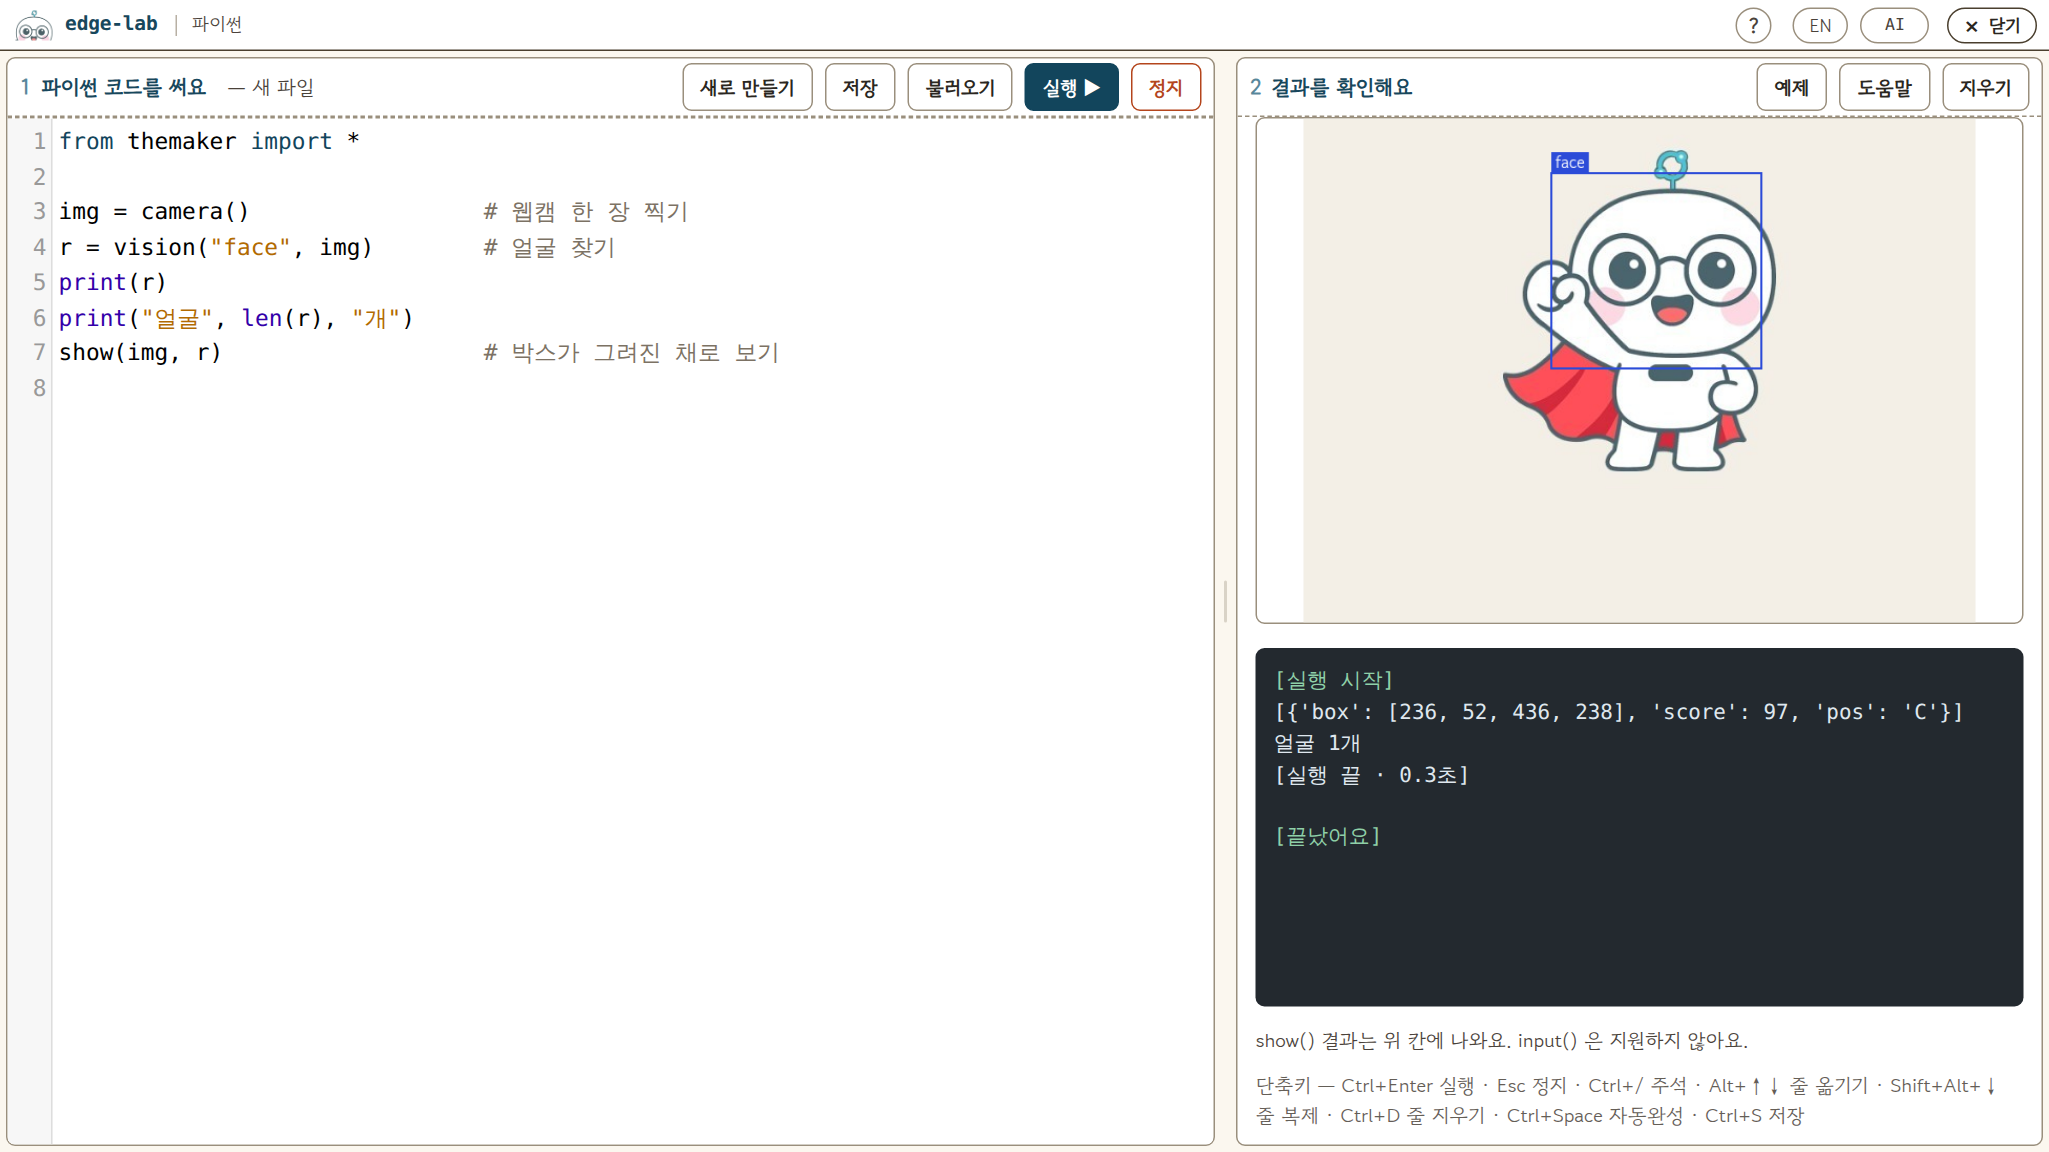
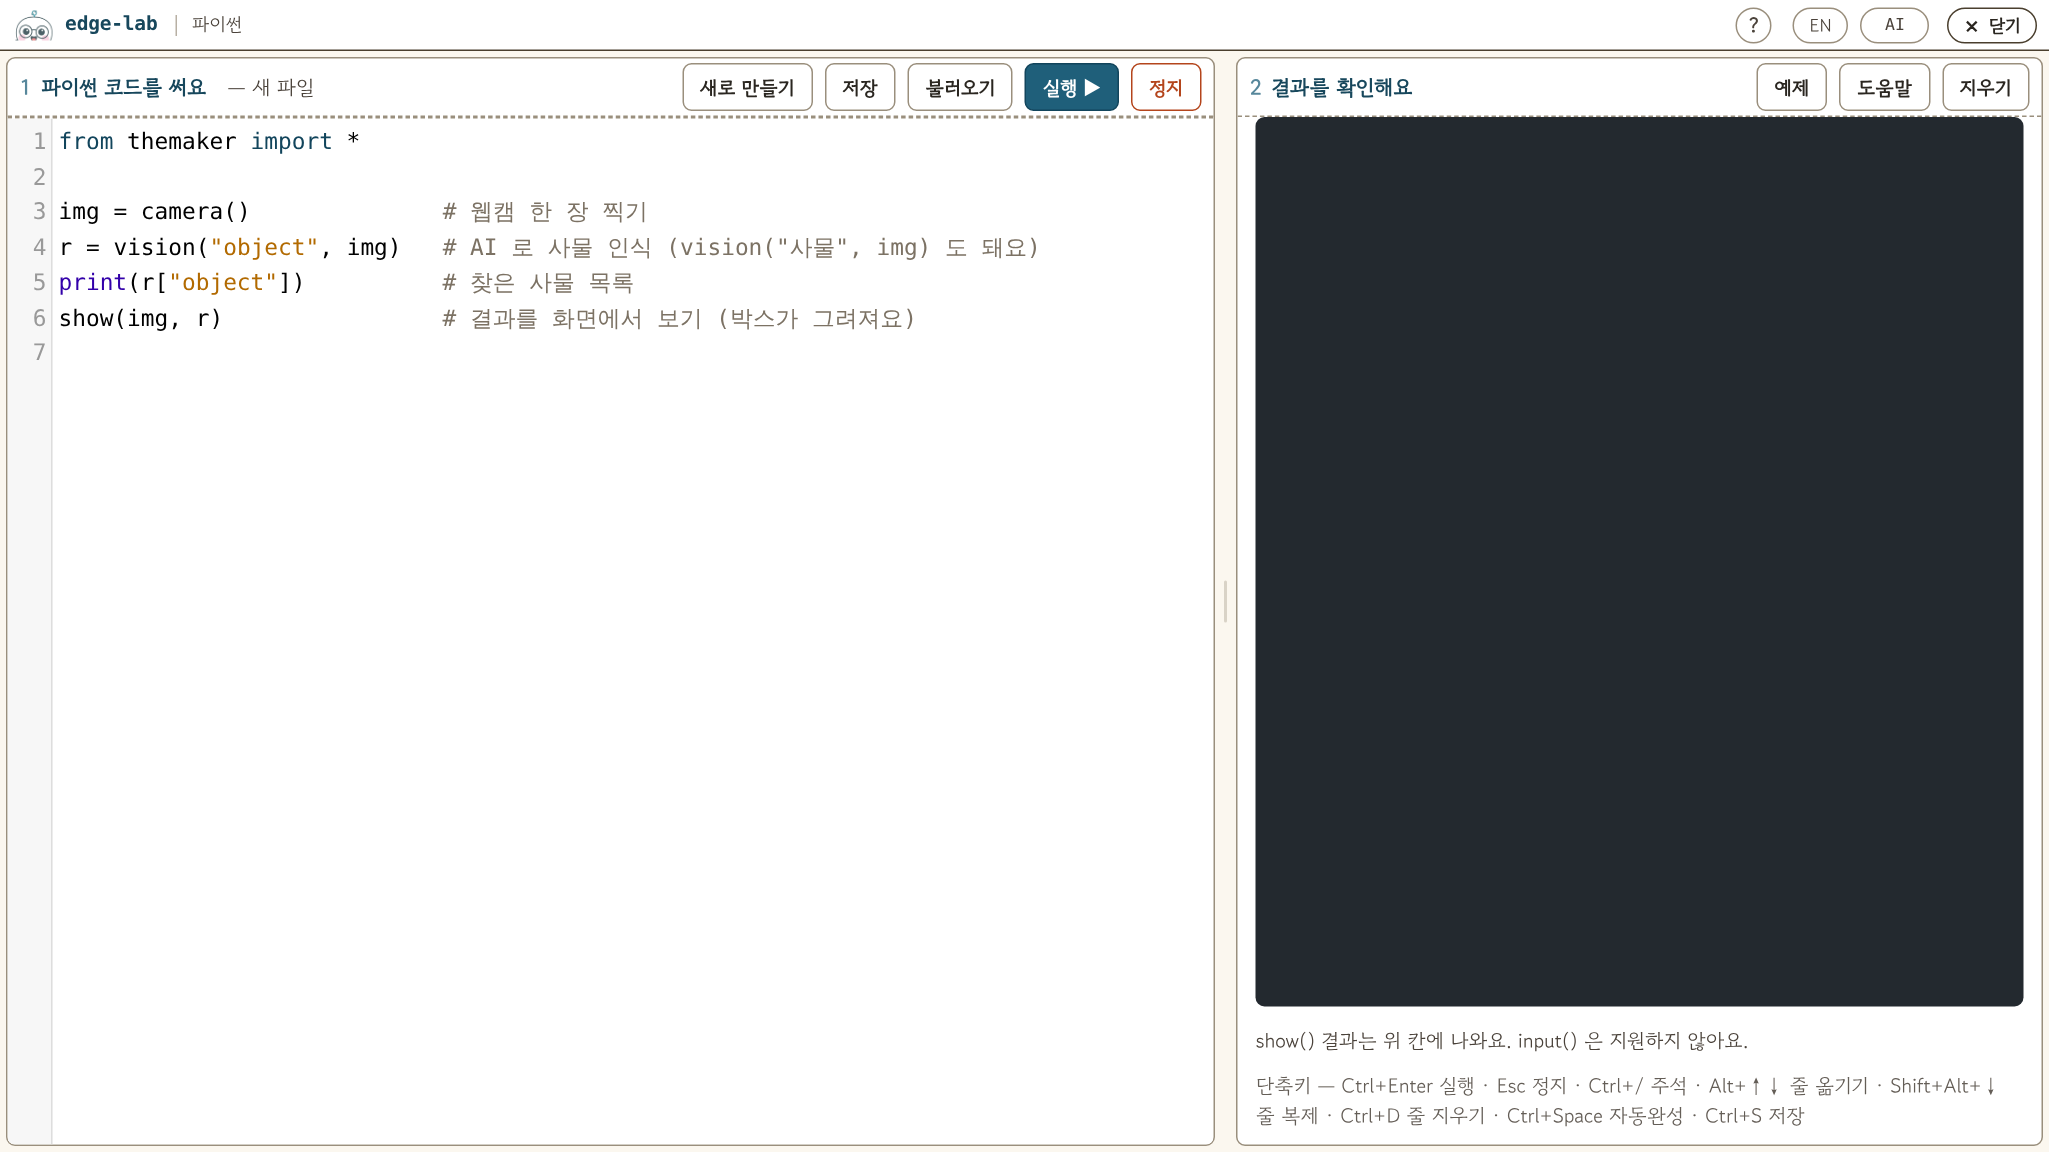
README 영문 설명에 영문 화면 캡처, 한글 캡처도 지금 화면으로
- docs/img/en/*.png: 영문 화면(홈 · 체험하기 · 블록 · 파이썬 · 가르치기 · 대화). README 영문 부분이 이것을 쓴다
- docs/img/*.png: 한글 캡처를 지금 화면(새 홈 등)으로 다시 찍음. 두 벌 같은 조건(1366×768 · 1.5배)
  체험하기의 얼굴 찾기 결과는 face-detection-retail-0005 를 실제로 돌린 것
- 파이썬 첫 코드의 주석이 영문 화면에서도 한글로 나오던 것 — 영문 화면이면 영문 주석으로

diff --git a/README.md b/README.md
@@ -201,7 +201,7 @@ and the photos you take and the things you make never leave this PC.
 
 Work is split across the CPU, GPU and NPU of an Intel AI PC. No cloud, no account, no bills.
 
-![Home](docs/img/home.png)
+![Home](docs/img/en/home.png)
 
 ---
 
@@ -223,7 +223,7 @@ Turn on **Live** to keep recognizing straight from the webcam.
 | Change the photo | Remove background · 4× upscale · depth map (near and far as color) |
 | Text & QR | Read text (KO/EN) · read QR codes |
 
-![Try it](docs/img/try.png)
+![Try it](docs/img/en/try.png)
 
 ### Blocks — snap blocks together to run the AI
 
@@ -231,7 +231,7 @@ Image · AI recognition · sound · AI language · event blocks snap together wi
 logic, loops and variables. Load an **Example** and run it right away; save your work and reopen it later.
 See **what your blocks look like as Python** side by side, and carry it straight over to the Python screen.
 
-![Blocks](docs/img/blocks.png)
+![Blocks](docs/img/en/blocks.png)
 
 ### Python — one line is enough
 
@@ -246,7 +246,7 @@ show(vision("depth", photo))          # near and far as color
 speak("Hello")                        # say it out loud
 ```
 
-![Python](docs/img/code.png)
+![Python](docs/img/en/code.png)
 
 ### Train — teach an AI yourself
 
@@ -257,7 +257,7 @@ train, and test it immediately. Instead of photos it can also learn from
 It shows how well it learned with accuracy and a learning curve, and shows you the ones it got wrong.
 Save your AI and **use it from Try it, Blocks and Python.**
 
-![Train](docs/img/train.png)
+![Train](docs/img/en/train.png)
 
 ### Talk — ask by voice or text
 
@@ -266,7 +266,7 @@ Speak into the mic or type. Turn on **Read aloud** and it answers with a voice; 
 **Add your own notes and it answers from inside them.** Paste in class material, ask a question,
 and it also shows you where the answer came from.
 
-![Talk](docs/img/talk.png)
+![Talk](docs/img/en/talk.png)
 
 ### Settings — check before class
 
